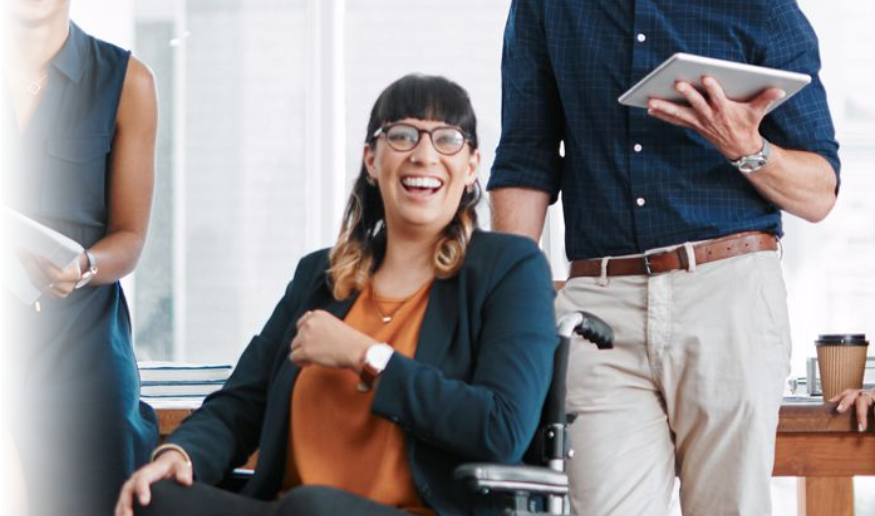
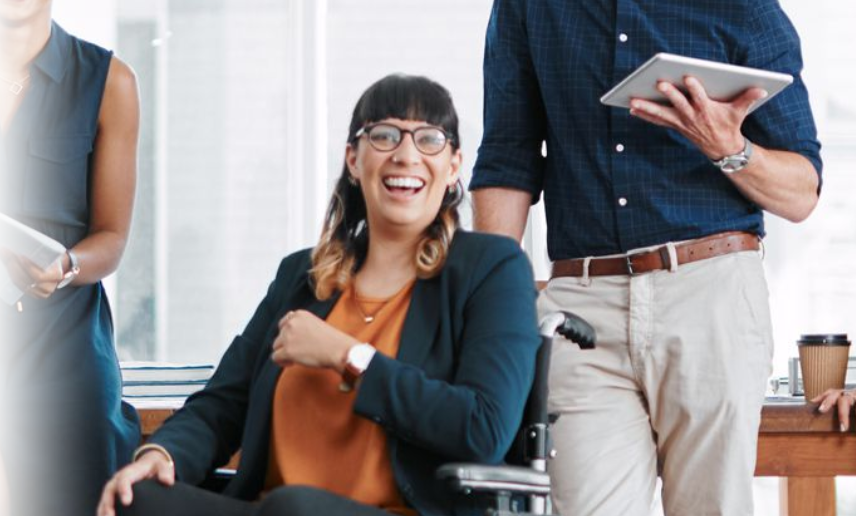
Commit pra apresentação final

diff --git a/script.js b/script.js
@@ -20,17 +20,19 @@ function Contraste(){
         document.getElementById('saibamais').style.border = 'solid'
         document.getElementById('botaoartigos').style.backgroundColor = 'black'
         document.getElementById('botaoartigos').style.border = 'solid'
+        document.getElementById('botaovoltarimagens').style.backgroundColor = 'black'
+        document.getElementById('botatopularimagens').style.backgroundColor = 'black'
     }
     else{
         contraste=0
-        document.getElementById('header').style.backgroundColor = 'white'
-        document.getElementById('body').style.backgroundColor = 'white'
+        document.getElementById('header').style.backgroundColor = '#F5F2E6'
+        document.getElementById('body').style.backgroundColor = '#F5F2E6'
         document.getElementById('titulo').style.color = 'black'
         document.getElementById('link').style.color = 'black'
         document.getElementById('link1').style.color = 'black'
         document.getElementById('link2').style.color = 'black'
         document.getElementById('body').style.color = 'black'
-        document.getElementById('footer').style.backgroundColor = '#577272'
+        document.getElementById('footer').style.backgroundColor = '#216b6b'
         document.getElementById('pergunta').style.color = '#409d9d'
         document.getElementById('dicas').style.color = '#409d9d'
         document.getElementById('leidecotas1').style.color = '#409d9d'
@@ -38,6 +40,8 @@ function Contraste(){
         document.getElementById('saibamais').style.border = 'none'
         document.getElementById('botaoartigos').style.backgroundColor = '#409d9d'
         document.getElementById('botaoartigos').style.border = 'none'
+        document.getElementById('botaovoltarimagens').style.backgroundColor = '#409d9d'
+        document.getElementById('botatopularimagens').style.backgroundColor = '#409d9d'
     }
 }
 let tamanhotitulo = 32
@@ -45,8 +49,8 @@ let tamanholink = 18
 let tamanholeidecotas = 23
 let tamanholorem = 16
 let tamanhosaibamais = 19
-let tamanhopli = 12
-let tamanholeidecotas1 = 28
+let tamanhopli = 15
+let tamanholi = 19
 function Aumentar(){
     tamanhotitulo+=1
     tamanholink+=1
@@ -54,7 +58,7 @@ function Aumentar(){
     tamanholorem+=1
     tamanhosaibamais+=1
     tamanhopli+=1
-    tamanholeidecotas1+=1
+    tamanholi+=1
     document.getElementById('titulo').style.fontSize = tamanhotitulo + "pt";
     document.getElementById('link').style.fontSize = tamanholink + "pt";
     document.getElementById('link1').style.fontSize = tamanholink + "pt";
@@ -64,14 +68,14 @@ function Aumentar(){
     document.getElementById('lorem').style.fontSize = tamanholorem + "pt";
     document.getElementById('saibamais').style.fontSize = tamanhosaibamais + "pt";
     document.getElementById('dicas').style.fontSize = tamanhotitulo + "pt";
-    document.getElementById('li').style.fontSize = tamanholorem + "pt";
-    document.getElementById('li1').style.fontSize = tamanholorem + "pt";
-    document.getElementById('li2').style.fontSize = tamanholorem + "pt";
-    document.getElementById('li3').style.fontSize = tamanholorem + "pt";
-    document.getElementById('li4').style.fontSize = tamanholorem + "pt";
-    document.getElementById('li5').style.fontSize = tamanholorem + "pt";
-    document.getElementById('li6').style.fontSize = tamanholorem + "pt";
-    document.getElementById('li7').style.fontSize = tamanholorem + "pt";
+    document.getElementById('li').style.fontSize = tamanholi + "pt";
+    document.getElementById('li1').style.fontSize = tamanholi + "pt";
+    document.getElementById('li2').style.fontSize = tamanholi + "pt";
+    document.getElementById('li3').style.fontSize = tamanholi + "pt";
+    document.getElementById('li4').style.fontSize = tamanholi + "pt";
+    document.getElementById('li5').style.fontSize = tamanholi + "pt";
+    document.getElementById('li6').style.fontSize = tamanholi + "pt";
+    document.getElementById('li7').style.fontSize = tamanholi + "pt";
     document.getElementById('pli').style.fontSize = tamanhopli + "pt";
     document.getElementById('pli1').style.fontSize = tamanhopli + "pt";
     document.getElementById('pli2').style.fontSize = tamanhopli + "pt";
@@ -80,7 +84,7 @@ function Aumentar(){
     document.getElementById('pli5').style.fontSize = tamanhopli + "pt";
     document.getElementById('pli6').style.fontSize = tamanhopli + "pt";
     document.getElementById('pli7').style.fontSize = tamanhopli + "pt";
-    document.getElementById('leidecotas1').style.fontSize = tamanholeidecotas1 + "pt";
+    document.getElementById('leidecotas1').style.fontSize = tamanhotitulo + "pt";
     document.getElementById('txtlei').style.fontSize = tamanholorem + "pt";
     document.getElementById('botaoartigos').style.fontSize = tamanhosaibamais + "pt";
 }
@@ -91,7 +95,7 @@ function Diminuir(){
     tamanholorem-=1
     tamanhosaibamais-=1
     tamanhopli-=1
-    tamanholeidecotas1-=1
+    tamanholi-=1
     document.getElementById('titulo').style.fontSize = tamanhotitulo + "pt";
     document.getElementById('link').style.fontSize = tamanholink + "pt";
     document.getElementById('link1').style.fontSize = tamanholink + "pt";
@@ -101,14 +105,14 @@ function Diminuir(){
     document.getElementById('lorem').style.fontSize = tamanholorem + "pt";
     document.getElementById('saibamais').style.fontSize = tamanhosaibamais + "pt";
     document.getElementById('dicas').style.fontSize = tamanhotitulo + "pt";
-    document.getElementById('li').style.fontSize = tamanholorem + "pt";
-    document.getElementById('li1').style.fontSize = tamanholorem + "pt";
-    document.getElementById('li2').style.fontSize = tamanholorem + "pt";
-    document.getElementById('li3').style.fontSize = tamanholorem + "pt";
-    document.getElementById('li4').style.fontSize = tamanholorem + "pt";
-    document.getElementById('li5').style.fontSize = tamanholorem + "pt";
-    document.getElementById('li6').style.fontSize = tamanholorem + "pt";
-    document.getElementById('li7').style.fontSize = tamanholorem + "pt";
+    document.getElementById('li').style.fontSize = tamanholi + "pt";
+    document.getElementById('li1').style.fontSize = tamanholi + "pt";
+    document.getElementById('li2').style.fontSize = tamanholi + "pt";
+    document.getElementById('li3').style.fontSize = tamanholi + "pt";
+    document.getElementById('li4').style.fontSize = tamanholi + "pt";
+    document.getElementById('li5').style.fontSize = tamanholi + "pt";
+    document.getElementById('li6').style.fontSize = tamanholi + "pt";
+    document.getElementById('li7').style.fontSize = tamanholi + "pt";
     document.getElementById('pli').style.fontSize = tamanhopli + "pt";
     document.getElementById('pli1').style.fontSize = tamanhopli + "pt";
     document.getElementById('pli2').style.fontSize = tamanhopli + "pt";
@@ -117,7 +121,25 @@ function Diminuir(){
     document.getElementById('pli5').style.fontSize = tamanhopli + "pt";
     document.getElementById('pli6').style.fontSize = tamanhopli + "pt";
     document.getElementById('pli7').style.fontSize = tamanhopli + "pt";
-    document.getElementById('leidecotas1').style.fontSize = tamanholeidecotas1 + "pt";
+    document.getElementById('leidecotas1').style.fontSize = tamanhotitulo + "pt";
     document.getElementById('txtlei').style.fontSize = tamanholorem + "pt";
     document.getElementById('botaoartigos').style.fontSize = tamanhosaibamais + "pt";
 }
+
+var imagens = ["imagem1.jpg", "imagem2.jpg", "imagem3.png", "imagem4.jpg", "imagem5.jpg", "imagem6.jpg", "imagem7.jpg", "imagem8.jpg"];
+        var indiceImagemAtual = 0;
+      
+        function mudarImagem() {
+          for (var i = 1; i <= 4; i++) {
+            document.getElementById("imagem" + i).src = imagens[(indiceImagemAtual + i - 1) % imagens.length];
+          }
+          indiceImagemAtual = (indiceImagemAtual + 1) % imagens.length;
+        }
+        
+        function voltarImagem() {
+          for (var i = 1; i <= 4; i++) {
+            document.getElementById("imagem" + i).src = imagens[(indiceImagemAtual - i + imagens.length) % imagens.length];
+          }            
+          indiceImagemAtual = (indiceImagemAtual - 1 + imagens.length) % imagens.length;
+        }
+            

diff --git a/index.html b/index.html
@@ -53,31 +53,27 @@
     <div class="lista-container">
       <ul class="list">
         <li class="li" id="li">Monitoramento e Feedback</li>
-        <p class="pli" id="pli">Acompanhe regularmente a eficácia das políticas de inclusão e diversidade, coletando feedback dos
+        <p class="pli" id="pli">Acompanhar a eficácia das políticas de inclusão e diversidade, coletando feedback dos
           funcionários e ajustando as práticas conforme necessário.</p>
         <li class="li" id="li1">Políticas de inclusão</li>
         <p class="pli" id="pli1">As empresas devem estabelecer políticas claras de inclusão que demonstrem seu compromisso em
-          contratar e apoiar PCDs. Essas políticas devem ser comunicadas a todos os funcionários para promover a
-          conscientização.</p>
+          contratar e apoiar PCDs.</p>
         <li class="li" id="li2">Acessibilidade física</li>
-        <p class="pli" id="pli2">É importante que o local de trabalho seja acessível para pessoas com deficiência. Isso pode
-          envolver a instalação de rampas, corrimãos, elevadores, banheiros adaptados e sinalização adequada.</p>
+        <p class="pli" id="pli2">É importante que o local de trabalho seja acessível para pessoas com deficiência, com
+          rampas, elevadores, banheiros adaptados e sinalização adequada.</p>
         <li class="li" id="li3">Treinamento e conscientização</li>
         <p class="pli" id="pli3">É essencial oferecer treinamento regular aos funcionários sobre inclusão, conscientização sobre
-          deficiência e sensibilização para eliminar preconceitos e estereótipos.</p>
+          deficiência.</p>
       </ul>
       <ul class="list">
         <li class="li" id="li4">Desenvolvimento de carreira</li>
-        <p class="pli" id="pli4">Forneça oportunidades de desenvolvimento e progressão de carreira para os funcionários PCDs. Isso
-          pode incluir treinamentos específicos, mentoring, programas de capacitação e avaliações justas de desempenho.
-        </p>
+        <p class="pli" id="pli4">Forneça oportunidades de desenvolvimento e progressão de carreira para os funcionários PCDs.</p>
         <li class="li" id="li5">Cultura inclusiva</li>
-        <p class="pli" id="pli5">É importante criar uma cultura organizacional que valorize a diversidade e a inclusão. Isso pode
-          ser alcançado por meio de políticas antidiscriminação, grupos de afinidade, eventos de conscientização e
-          celebração da diversidade.</p>
+        <p class="pli" id="pli5">É importante criar uma cultura que valorize a diversidade e a inclusão, por meio de políticas 
+        antidiscriminação, eventos de conscientização e celebração da diversidade.</p>
         <li class="li" id="li6">Acessibilidade digital</li>
-        <p class="pli" id="pli6">Certifique-se de que os sites, aplicativos e sistemas internos da empresa, sejam acessíveis a
-          PCDs. Por meio de padrões de design, leitores de tela, opções de contraste visual e legendas em vídeos.</p>
+        <p class="pli" id="pli6">Utilizar padrões de design, leitores de tela e outras opções de acessibilidade nos softwares da empresa, possibilitando a utilização dos 
+        mesmos por funcionários PCDs.</p>
         <li class="li" id="li7">Adaptação de tarefas e equipamentos</li>
         <p class="pli" id="pli7">Esteja aberto a adaptar tarefas e fornecer equipamentos ou tecnologias assistivas para permitir
           que os funcionários PCDs desempenhem suas funções de maneira eficaz.</p>
@@ -85,15 +81,19 @@
     </div>
   </div>
   <div class="image-container">
-    <img src="imagem1.jpg" alt="Imagem 1" class="image">
-    <img src="imagem2.jpg" alt="Imagem 2" class="image">
-    <img src="imagem3.png" alt="Imagem 3" class="image">
-    <img src="imagem4.jpg" alt="Imagem 4" class="image">
+    <img src="imagem1.jpg" id="imagem1" alt="Imagem 1" class="image">
+    <img src="imagem2.jpg" id="imagem2" alt="Imagem 2" class="image">
+    <img src="imagem3.png" id="imagem3" alt="Imagem 3" class="image">
+    <img src="imagem4.jpg" id="imagem4" alt="Imagem 4" class="image">
+  </div>
+  <div class="pularimagem">
+    <button onclick="voltarImagem()" id="botaovoltarimagens" class="botaovoltarimagens"><</button>
+    <button onclick="mudarImagem()" id="botatopularimagens" class="botatopularimagens">></button>
   </div>
   <div class="divlei" id="leis">
     <img class="foto5" src="segundafoto.png" alt="Cadeirante mexendo em notebook">
     <div class="txtlei" id="txtlei">
-      <h4 class="leidecotas1" id="leidecotas1">Como as empresas podem incluir PCDs no mercado de trabalho? Quais os benefícios e a importância.</h4>
+      <h4 class="leidecotas1" id="leidecotas1">Como as empresas podem incluir PCDs no mercado de trabalho? Quais os benefícios e a importância?</h4>
       <p class="lorem1"> O artigo Inclusão Social de Pessoas com Deficiência no Mercado de Trabalho aborda que todas as empresas deveriam criar uma “meta” de contratação de pessoas com deficiência, como algumas já possuem. Esta meta deveria ser maior do que a pedida pela Lei de Cotas, além disso, criar programas de inclusão com os demais funcionários, para todos se sentirem confortáveis no ambiente de trabalho. Os principais benefícios de ter um PCD em sua empresa, tornará ela mais bem vista pela sociedade e fará com que os funcionários se espelhem nos PCDs e sejam pessoas melhores.</p>
       <a href="https://drive.google.com/file/d/1DIO0Lgt45OcYORfFfLV7v97GS3mg2oqm/view" target="_blank"><button class="botaoartigos" id="botaoartigos">Artigo</button></a>
     </div>
@@ -101,7 +101,7 @@
 </body>
 <footer id="footer">
   <div class="footer-content">
-    <span class="span">&copy; 2023 Conectados pela Inclusão. Todos os direitos reservados.</span>
+    <span class="span">Conectados pela Inclusão. Grupo 2 - Projeto Integrador I.</span>
     <img class="ifc" src="image-removebg-preview.png" alt="Logoif">
   </div>
   <div class="footer-divider"></div>

diff --git a/style.css b/style.css
@@ -1,18 +1,13 @@
 body {
     margin: 0;
     padding: 0;
-    background-color: #fff;
+    background-color: #F5F2E6;
     color: #000;
     font-family: 'Gill Sans', 'Gill Sans MT', Calibri, 'Trebuchet MS', sans-serif;}
-.high-contrast body {
-    background-color: #000;
-    color: #fff;
-}
 html{
-    scroll-behavior: smooth;
-}
+    scroll-behavior: smooth;}
 header{
-    background-color: #ffffffff;
+    background-color: #F5F2E6;
     box-shadow: 0 1px 3px rgba(0,0,0,0.25), 0 4px 10px rgba(0,0,0,0.22);
     display: flex;
     align-items: center;
@@ -20,9 +15,6 @@ header{
     max-height: 90px;
     top: 0;
     z-index: 1000;}
-.high-contrast header {
-    background-color: #000;
-}
 .logo {
     height: 90px;
     width: 90px;
@@ -106,8 +98,9 @@ header{
     padding: 10px;}
 .imagem {
     width: 650px;
-    height: auto;
-    margin-right: 40px;}
+    height: 450px;
+    margin-right: 40px;
+    margin-top: 50px;}
 .content {
     flex: 1;
     text-align: right;}
@@ -150,6 +143,7 @@ header{
     display: flex;
     align-items: center;
     padding: 20px;
+    padding-top: 70px;
     margin-bottom: 50px;}
 .foto5 {
     width: 400px;
@@ -162,18 +156,21 @@ header{
     font-size: 16pt;
     margin-bottom: 10px;
     margin-right: 65px;
-    margin-top: 40px;
+    margin-top: 0px;
     text-align: justify;}
 .leidecotas1 {
-    font-size: 28pt;
+    font-size: 32pt;
     color: #409d9d;
     margin-bottom: 10px;}
+.lorem1 {
+    padding-top: 20px;}
 .botaoartigos {
     background-color: #409d9d;
     font-size: 19pt;
     color: #fff;
     border: none;
     padding: 5px 10px;
+    margin-top: 10px;
     border-radius: 15px;
     cursor: pointer;}
 .botaoartigos:hover {
@@ -184,7 +181,7 @@ header{
 .divdicas {
     max-width: 1200px;
     margin: 0 auto;
-    padding-top: 20px;}
+    padding-top: 70px;}
 .dicas {
     font-size: 32pt;
     margin-top: 20px;
@@ -197,11 +194,12 @@ header{
 .list {
     width: 50%;}
 .li {
-    font-size: 16pt;
-    margin-top: -4px;
-}
+    font-size: 19pt;
+    margin-top: -4px;}
+.li4 {
+    margin-top: 20px;}
 .pli {
-    font-size: 12pt;
+    font-size: 15pt;
     text-align: justify;
     margin-top: 4px;}
 .image-container {
@@ -210,11 +208,47 @@ header{
     justify-content: center;
     align-items: center;}
 .image {
-    width: 160px;
-    height: 130px;
-    box-shadow: 0 14px 28px rgba(0,0,0,0.25), 0 10px 10px rgba(0,0,0,0.22);}
+    width: 230px;
+    height: 200px;
+    padding-left: 20px;}
+.pularimagem {
+    display: flex;
+    align-items: center;
+    justify-content: center;
+    margin-top: 15px;
+    margin-left: 20px;}
+.botaovoltarimagens{
+    border-color: white;
+    border-radius: 40%;
+    text-align: center;
+    align-items: center;
+    font-size: 18pt;
+    padding: 2px 5px 2px 5px;
+    color: #fff;
+    background-color: #409d9d;
+    margin-right: 5px;}
+.botaovoltarimagens:hover {
+    font-size: 200%;
+    background-color: #064747;
+    border-color: #064747;
+    transition: all 0.5s ease-in;}
+.botatopularimagens{
+    border-color: white;
+    border-radius: 40%;
+    text-align: center;
+    align-items: center;
+    font-size: 18pt;
+    padding: 2px 5px 2px 5px;
+    color: #fff;
+    background-color: #409d9d;
+    margin-left: 5px;}
+.botatopularimagens:hover {
+    font-size: 200%;
+    background-color: #064747;
+    border-color: #064747;
+    transition: all 0.5s ease-in;}
 footer {
-    background-color: #577272;
+    background-color: #216b6b;
     color: #fff;
     text-align: center;
     padding: 20px 0;
